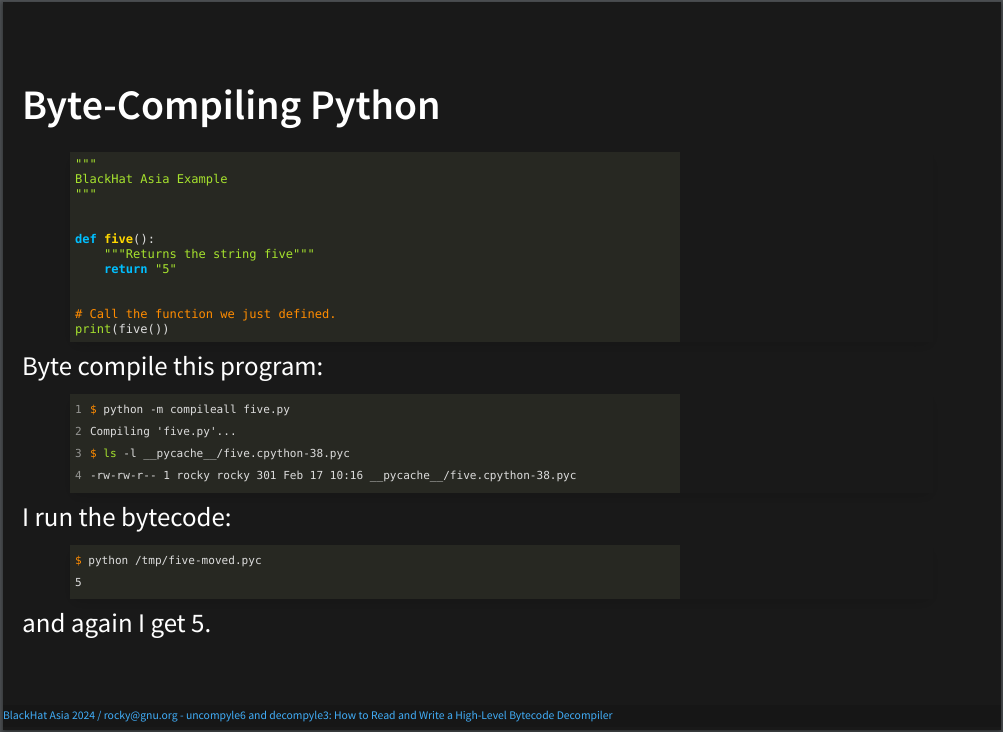
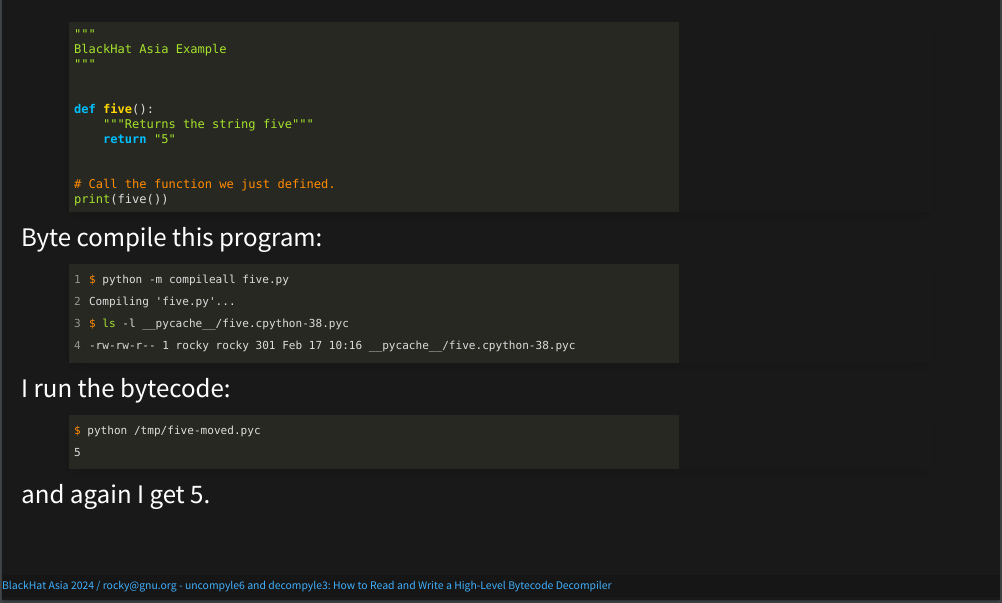
Remove more slide titles

diff --git a/all-notes-print.html b/all-notes-print.html
@@ -811,7 +811,8 @@
    <hr/>
 
    <!--- 100-parsing-tokens.html #/10 -->
-   <img id="phases-1-and-2"
+   <h2 id="phases-1-and-2">Phases 1 and 2: Bytecode to Tokens</h2>
+   <img
 	alt="slide-10-0-1"
 	src="slide-images/slide-10-0-1.png"/>
    <p>
@@ -846,6 +847,9 @@
      this.
    </p>
 
+   <img
+	alt="slide-10-0-3"
+	src="slide-images/slide-10-0-3.png"/>
    <p>
      The first instruction, "LOAD_CONST" is at offset 0. Offset
      numbers are in purple. The "LOAD_CONST" operation at offset 0
